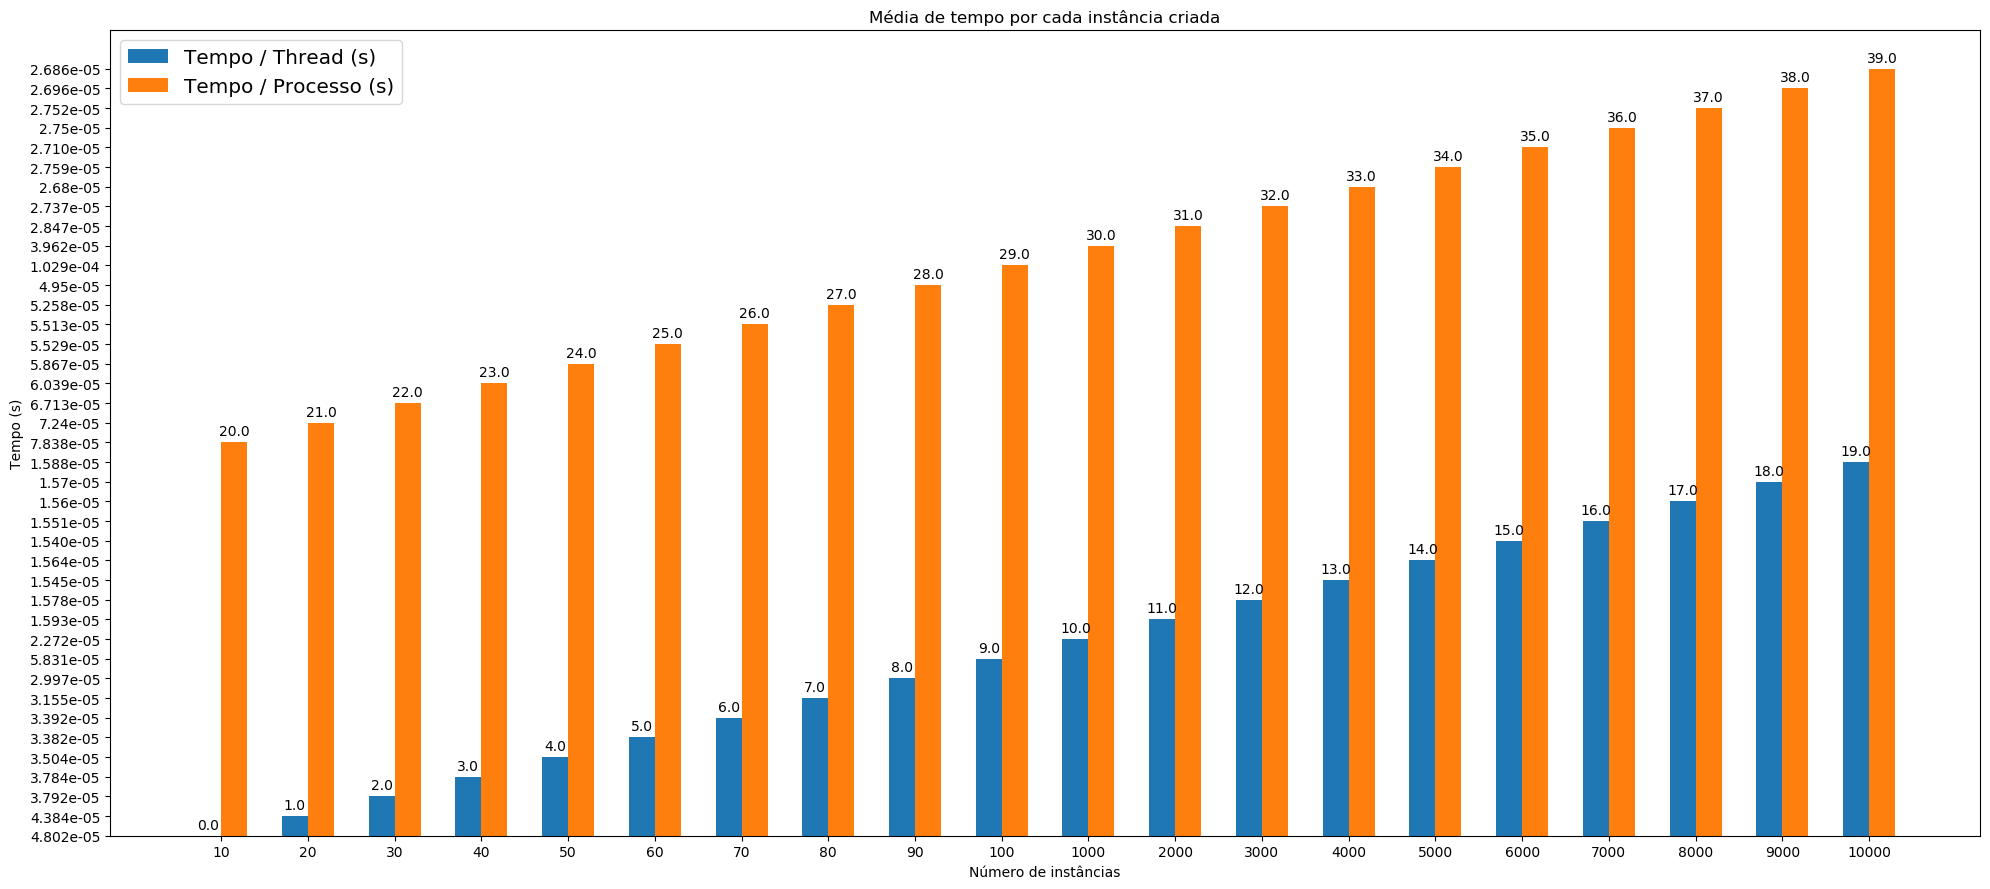
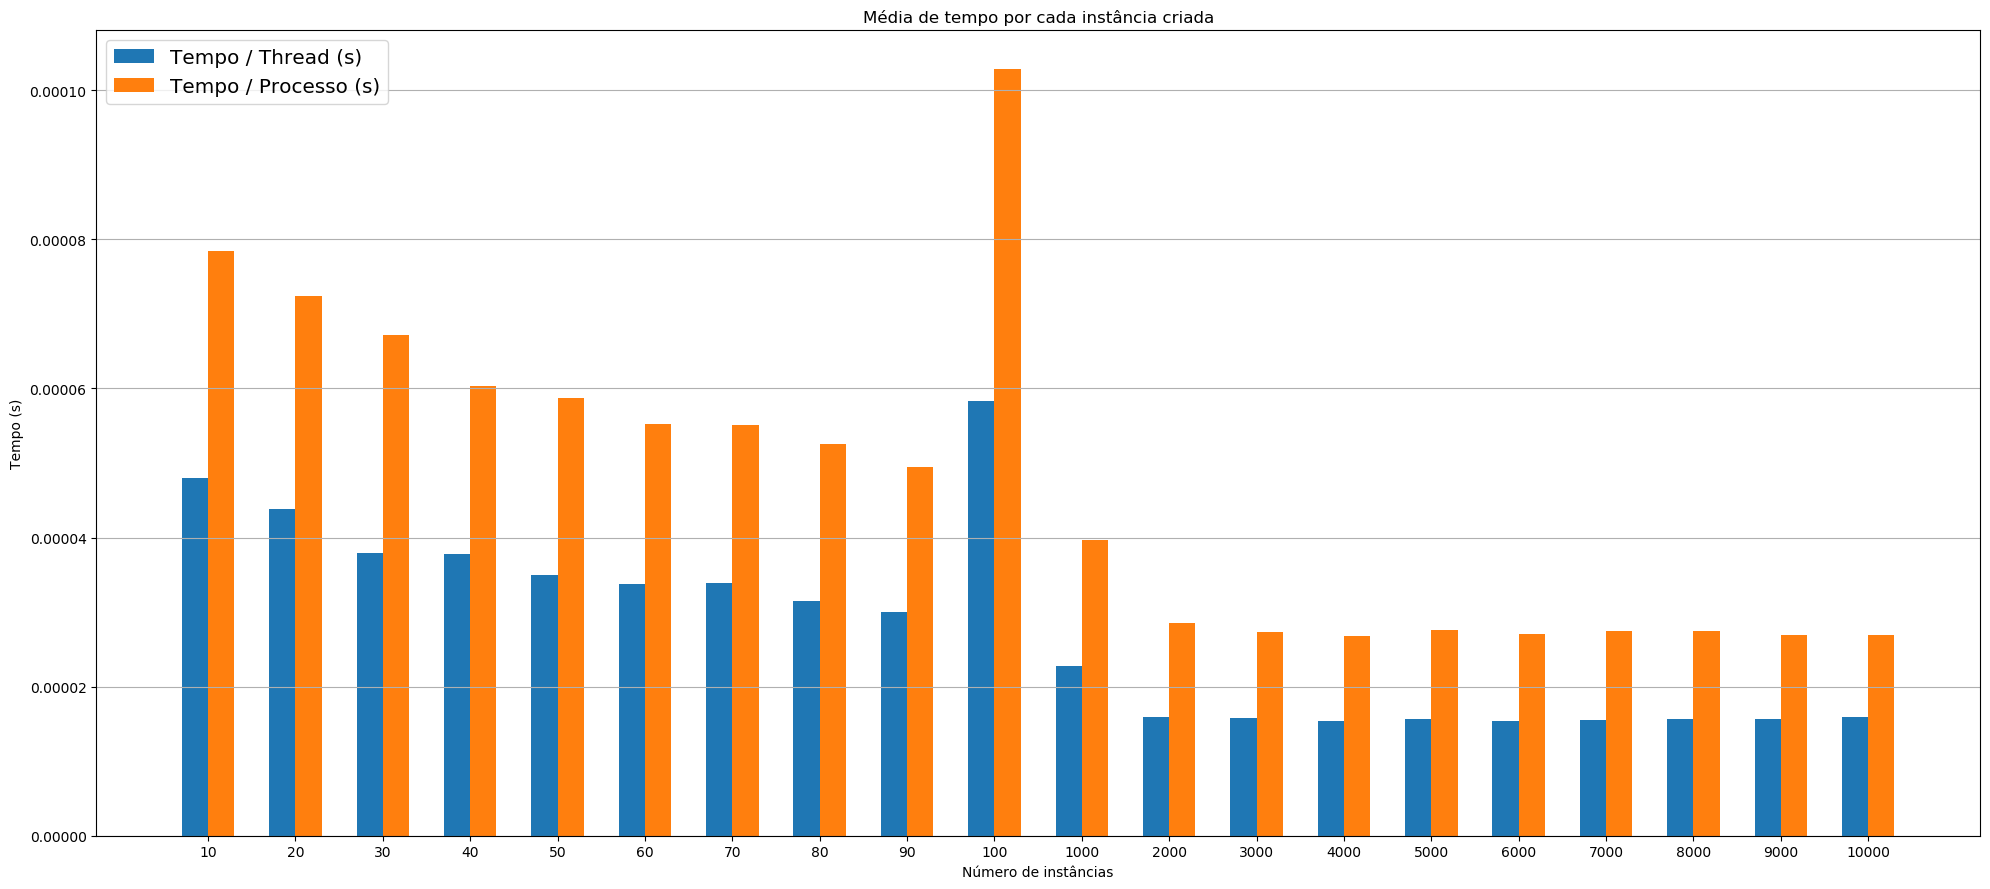
correções grafico de tempo/instancia

diff --git a/questao_3/output/plot_graphics.py b/questao_3/output/plot_graphics.py
@@ -351,9 +351,9 @@ plt.close(fig)
 ## PER-THREAD AND PER-PROCESS DATA BARS
 
 thread_hist_mem = [round(statistics.mean(np.array(thread_mem_data_map[key]) / key), 2) for key in keys]
-thread_hist_time = [np.format_float_scientific(statistics.mean(np.array(thread_time_data_map[key]) / key), precision=3) for key in keys]
+thread_hist_time = [statistics.mean(np.array(thread_time_data_map[key]) / key) for key in keys]
 proc_hist_mem = [round(statistics.mean(np.array(proc_mem_data_map[key]) / key), 2) for key in keys]
-proc_hist_time = [np.format_float_scientific(statistics.mean(np.array(proc_time_data_map[key]) / key), precision=3) for key in keys]
+proc_hist_time = [statistics.mean(np.array(proc_time_data_map[key]) / key) for key in keys]
 
 ### MEMORY
 
@@ -388,9 +388,10 @@ ax.set_title('Média de tempo por cada instância criada')
 ax.set_xticks(np.array(range(0, len(keys))))
 ax.set_xticklabels(keys)
 ax.legend(loc='upper left', fontsize='x-large')
+ax.yaxis.grid(True)
 
-autolabel(rects1)
-autolabel(rects2)
+# autolabel(rects1)
+# autolabel(rects2)
 
 fig.tight_layout()
 

diff --git a/questao_3/README.md b/questao_3/README.md
@@ -53,7 +53,7 @@ Observamos acima que houve uma diminuição na quantidade de memória utilizada 
 
 ![alt text](output/bar_mean_time_unit.png?raw=true)
 
-Já se tratando de tempo, observamos que houve um aumento no tempo necessário para inicializar uma nova thread ou processo no decorrer do incremento do número de instâncias.
+Já se tratando de tempo, observamos que também é retratada uma diminuição no tempo necessário para inicializar uma nova thread ou processo no decorrer do incremento do número de instâncias.
 
 ### Boxplots
 
